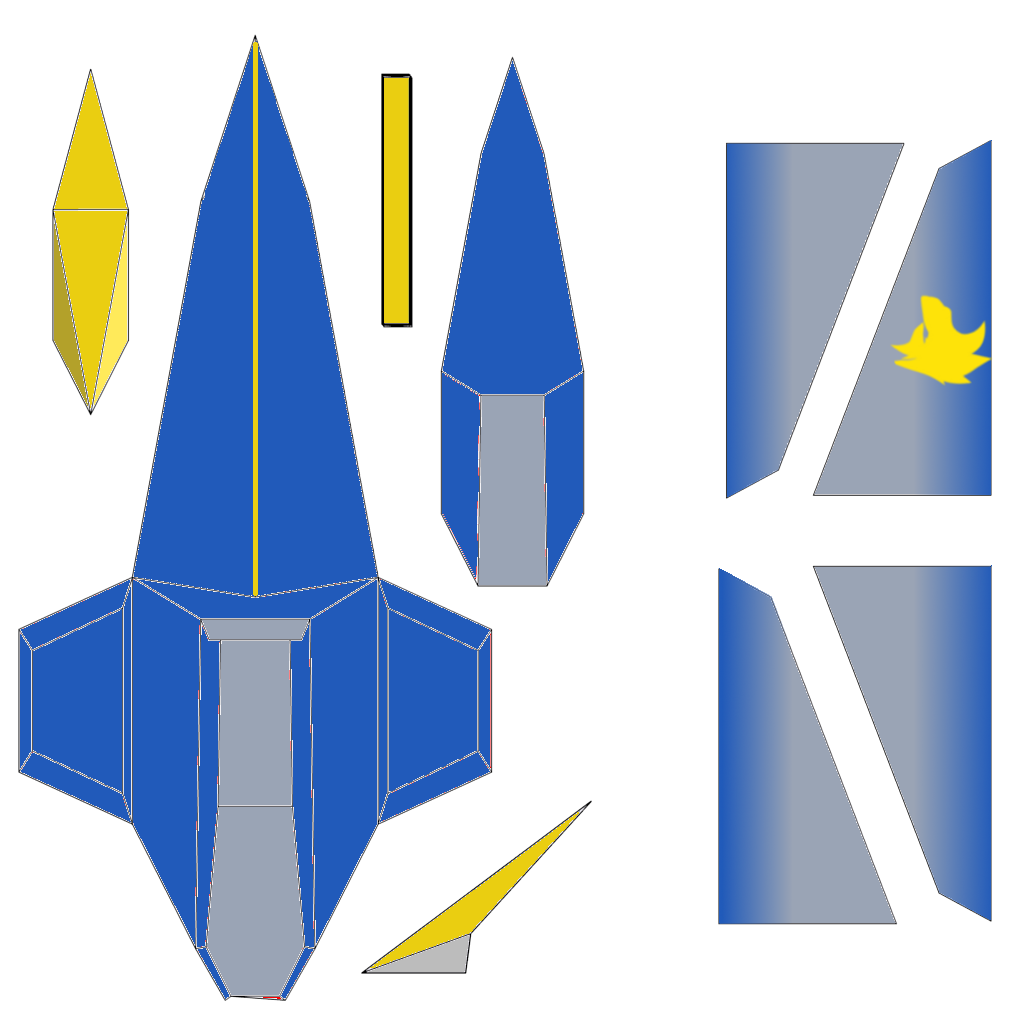
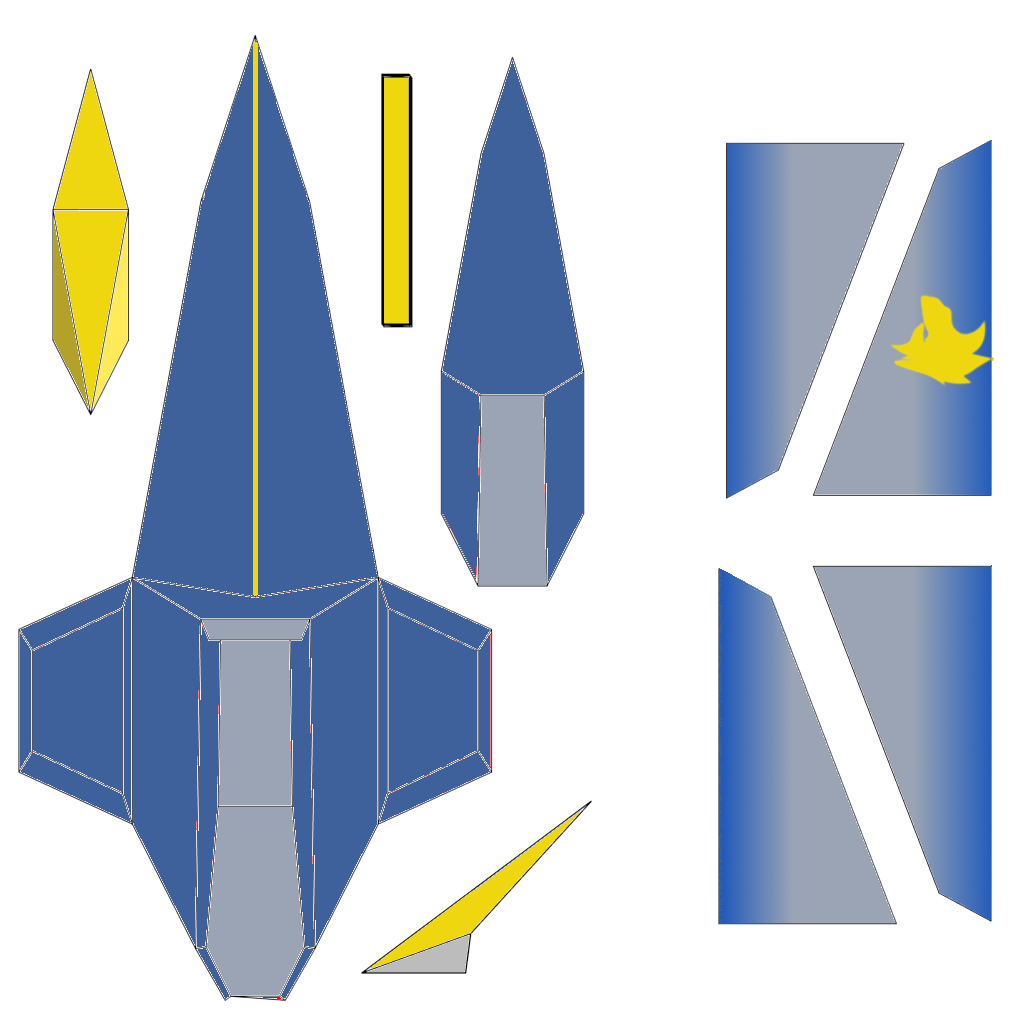
[Easter egg] Changing spaceship texture based on the player's name. Also updated model's textures

Changed region(s): [[0.0, 0.0625, 0.5, 0.9688], [0.4062, 0.0625, 0.5938, 0.5625]]

diff --git a/src/states/PlayState.cpp b/src/states/PlayState.cpp
@@ -8,7 +8,6 @@ PlayState::PlayState()
 {
   _game = new Game();
   _playGUI = NULL;
-  _player_color = "Red"; //"Red" or "Blue"
 }
 
 void
@@ -156,7 +155,15 @@ void PlayState::createScene()
   _sceneMgr->getRootSceneNode()->addChild(node_ground);
 
   // Creating the spaceship
-  _player.create(_player_color, _sceneMgr);
+  std::cout << "--"<<_game->getPlayerName() << "--\n";
+  if (_game->getPlayerName() == "CEDV" || _game->getPlayerName() == "cedv") // an small easter egg :P
+  {
+    _player.create("Blue", _sceneMgr);
+  }
+  else
+  {
+    _player.create("Red", _sceneMgr);
+  }
 
   // Creating several enemies
   for (int i = 0; i < Game::INITIAL_ENEMIES; i++)

diff --git a/include/states/PlayState.h b/include/states/PlayState.h
@@ -74,7 +74,6 @@ protected:
   std::vector<Enemy> _enemies;
   Player _player;
   Boss _boss;
-  std::string _player_color;
   int _phase = ENEMIES;
 
   void movePlayer(Ogre::Real deltaT);
